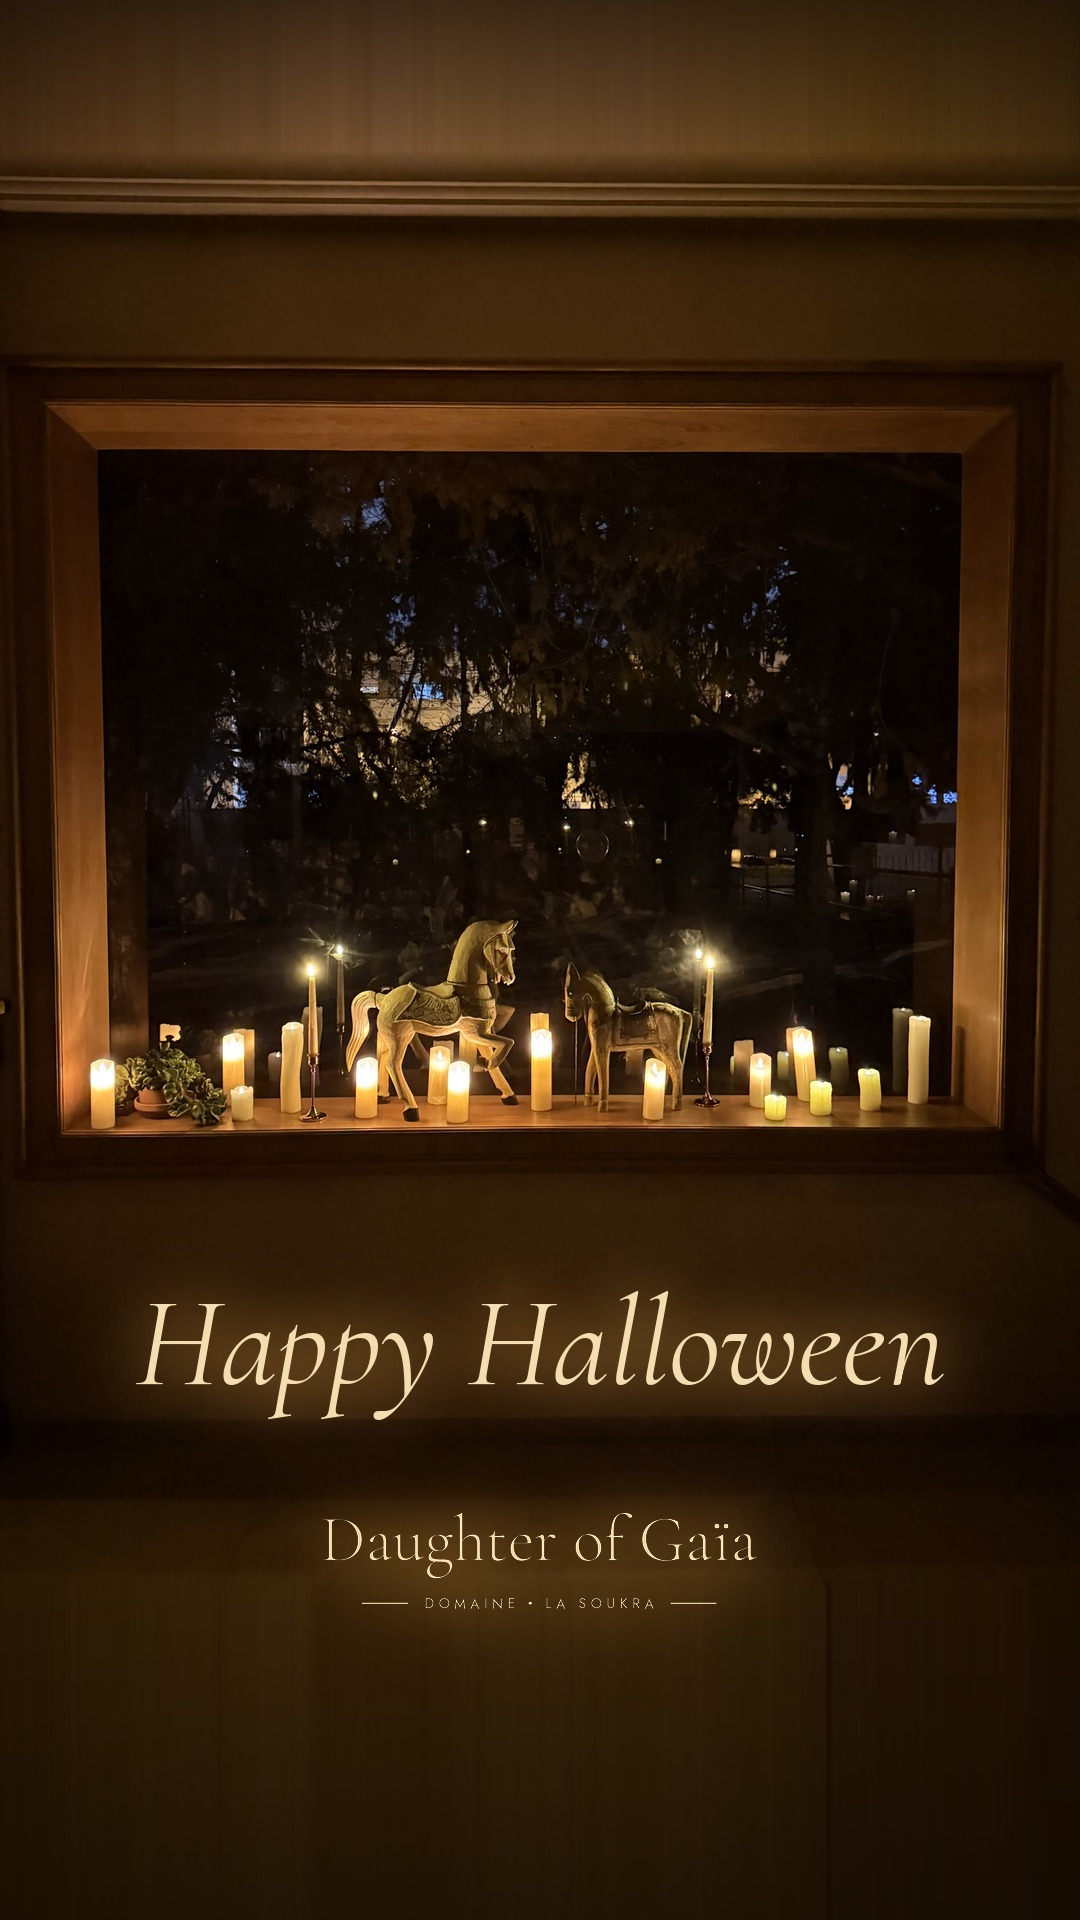
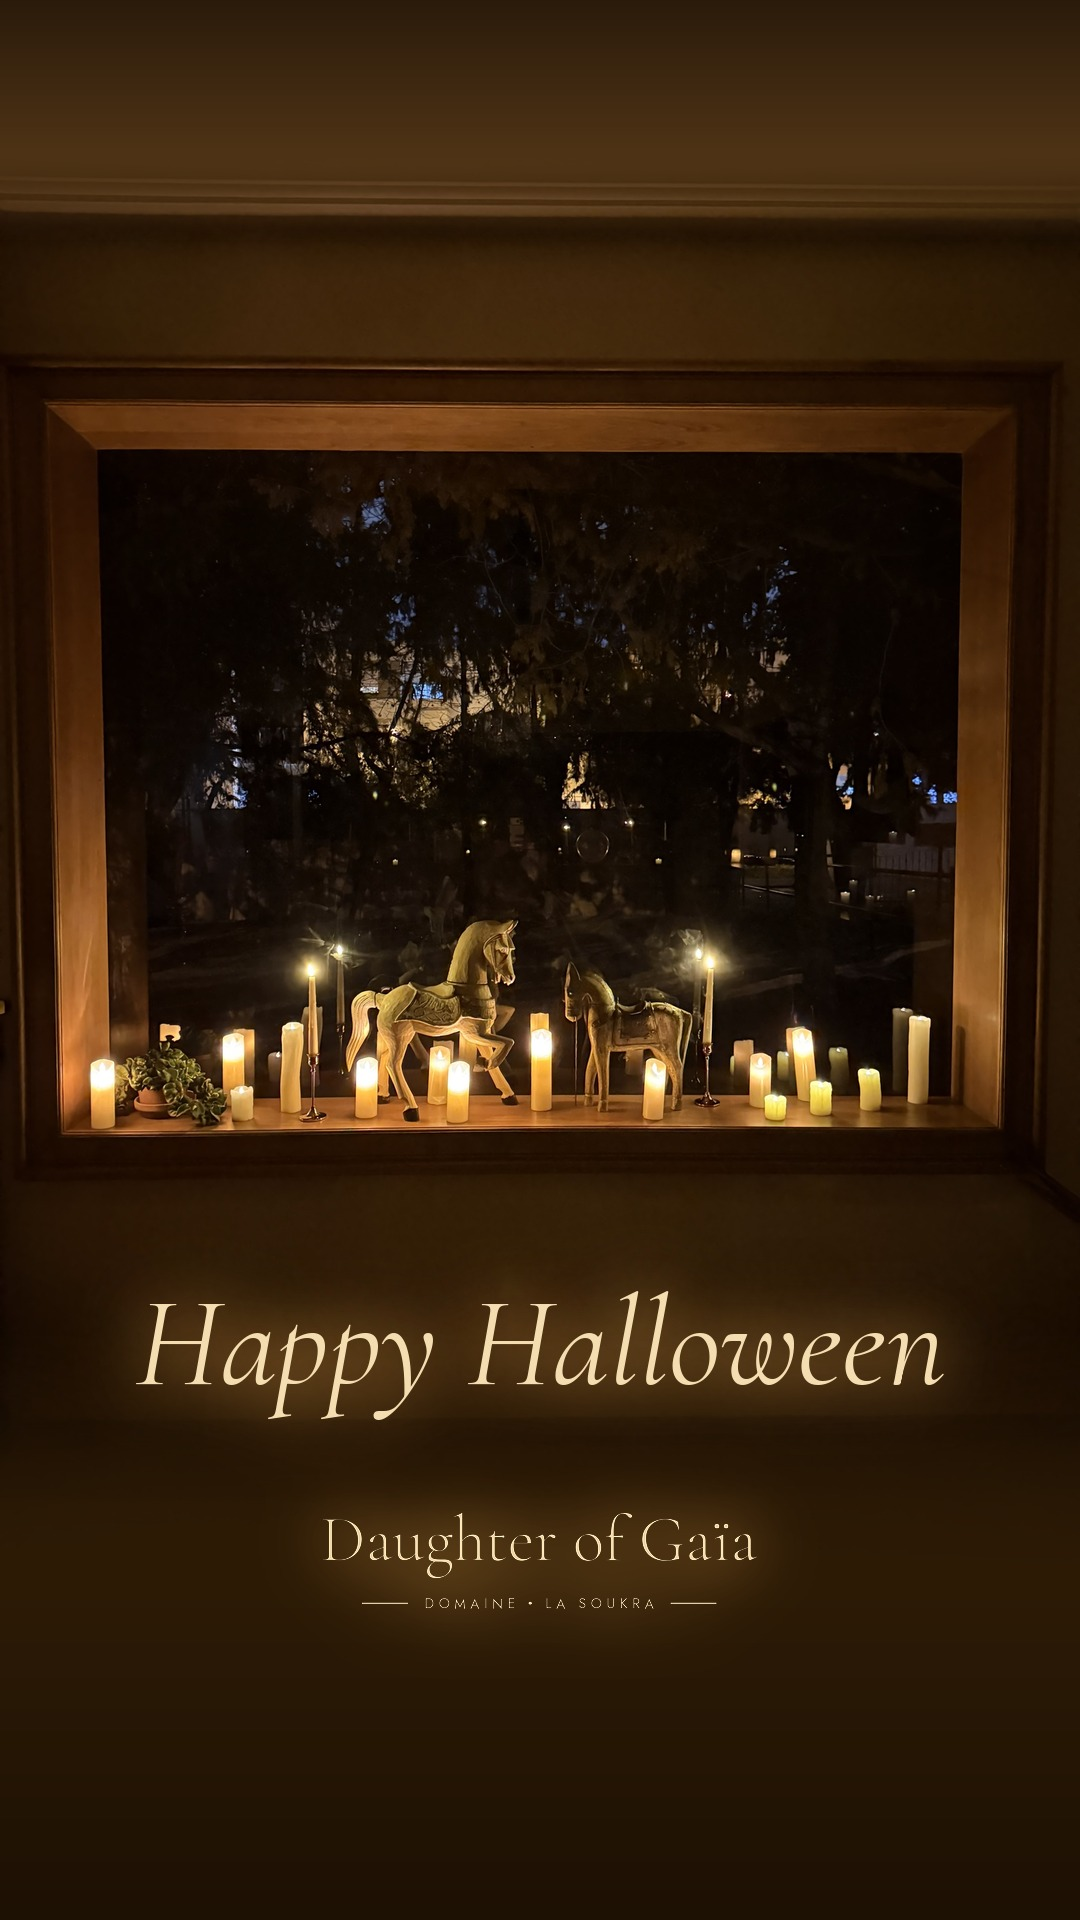
Story Halloween vue du dehors, et raccords sans rayures en haut et en bas
Claude-Session: https://claude.ai/code/session_01NbEMafBkY3AdMos4dxswM8

Changed region(s): [[0.2139, 0.0, 0.6722, 0.125], [0.9472, 0.0625, 1.0, 0.0938], [0.0, 0.0625, 0.0306, 0.0938]]

diff --git a/instagram/story_halloween.py b/instagram/story_halloween.py
@@ -1,4 +1,5 @@
-"""Story Halloween : la fenêtre aux bougies et aux chevaux de bois, la nuit.
+"""Stories Halloween : la fenêtre aux bougies et aux chevaux de bois, la nuit,
+vue de l'intérieur puis du dehors (avec l'ombre d'un cheval sur le mur).
 
 Toute la photo est gardée (la fenêtre est trop large pour un recadrage 9:16) ;
 le haut et le bas de la story prolongent le plafond et le mur sombre.
@@ -14,7 +15,12 @@ from signature import POLICES, signature
 
 RACINE = Path(__file__).resolve().parent
 W, H = 1080, 1920
-HAUT_PHOTO = 150
+# Pour chaque photo : où la poser, et où écrire (haut du texte, haut de la signature).
+PHOTOS = {
+# rogne_haut : bande retirée en haut de la photo (le ciel du dehors).
+    "halloween": ("fenetre-bougies.jpg", 0, 150, 1290, 1500),
+    "halloween-dehors": ("fenetre-bougies-dehors.png", 45, 200, 1250, 1450),
+}
 BOUGIE = "#F4DDB0"  # le blanc chaud de la flamme
 
 
@@ -32,17 +38,27 @@ def halo(calque, couleur="#E9A94F", force=0.55, flou=30):
     return Image.alpha_composite(fond, calque)
 
 
-def story():
-    src = ImageOps.exif_transpose(Image.open(RACINE / "photos" / "fenetre-bougies.jpg")).convert("RGB")
+def teinte(im, boite):
+    return im.crop(boite).resize((1, 1), Image.BOX).getpixel((0, 0))
+
+
+def story(fichier, rogne_haut, HAUT_PHOTO, y_texte, y_sig):
+    src = ImageOps.exif_transpose(Image.open(RACINE / "photos" / fichier)).convert("RGB")
+    src = src.crop((0, rogne_haut, src.width, src.height))
     photo = src.resize((W, round(src.height * W / src.width)), Image.LANCZOS)
-    im = Image.new("RGB", (W, H))
-    # Prolonge le plafond vers le haut et le mur vers le bas, en étirant la
-    # première et la dernière ligne, assombries en s'éloignant de la photo.
-    im.paste(photo.crop((0, 0, W, 1)).resize((W, HAUT_PHOTO)), (0, 0))
     bas = HAUT_PHOTO + photo.height
-    im.paste(photo.crop((0, photo.height - 1, W, photo.height)).resize((W, H - bas)), (0, bas))
-    im.paste(photo, (0, HAUT_PHOTO))
-    im = im.filter(ImageFilter.GaussianBlur(0)).convert("RGBA")
+    # Au-dessus et au-dessous, la teinte moyenne du bord de la photo, unie ;
+    # la photo s'y fond sur une bande dégradée, sans raccord visible.
+    im = Image.new("RGB", (W, H), teinte(photo, (0, photo.height - 40, W, photo.height)))
+    im.paste(teinte(photo, (0, 0, W, 40)), (0, 0, W, HAUT_PHOTO + 90))
+    masque = Image.new("L", (1, photo.height), 255)
+    for fondu, en_haut in ((90, True), (260, False)):
+        if en_haut and not HAUT_PHOTO:
+            continue
+        for y in range(fondu):
+            masque.putpixel((0, y if en_haut else photo.height - 1 - y), int(255 * (y / fondu) ** 1.5))
+    im.paste(photo, (0, HAUT_PHOTO), masque.resize(photo.size))
+    im = im.convert("RGBA")
     ombre = Image.new("L", (1, H))
     for y in range(H):
         t = max(0.0, (HAUT_PHOTO - y) / HAUT_PHOTO, (y - bas) / (H - bas))
@@ -53,13 +69,14 @@ def story():
 
     calque = Image.new("RGBA", (W, H), (0, 0, 0, 0))
     d = ImageDraw.Draw(calque)
-    d.text((W / 2, 1290), "Happy Halloween", font=police("CormorantGaramond-Italic[wght].ttf", 128, 400),
+    d.text((W / 2, y_texte), "Happy Halloween", font=police("CormorantGaramond-Italic[wght].ttf", 128, 400),
            fill=BOUGIE, anchor="mt")
     sig = signature(BOUGIE, BOUGIE)
     sig = sig.resize((460, round(sig.height * 460 / sig.width)), Image.LANCZOS)
-    calque.paste(sig, ((W - sig.width) // 2, 1500), sig)
+    calque.paste(sig, ((W - sig.width) // 2, y_sig), sig)
     return Image.alpha_composite(im, halo(calque)).convert("RGB")
 
 
 if __name__ == "__main__":
-    story().save(RACINE / "stories" / "halloween.jpg", quality=92)
+    for nom, reglages in PHOTOS.items():
+        story(*reglages).save(RACINE / "stories" / f"{nom}.jpg", quality=92)
